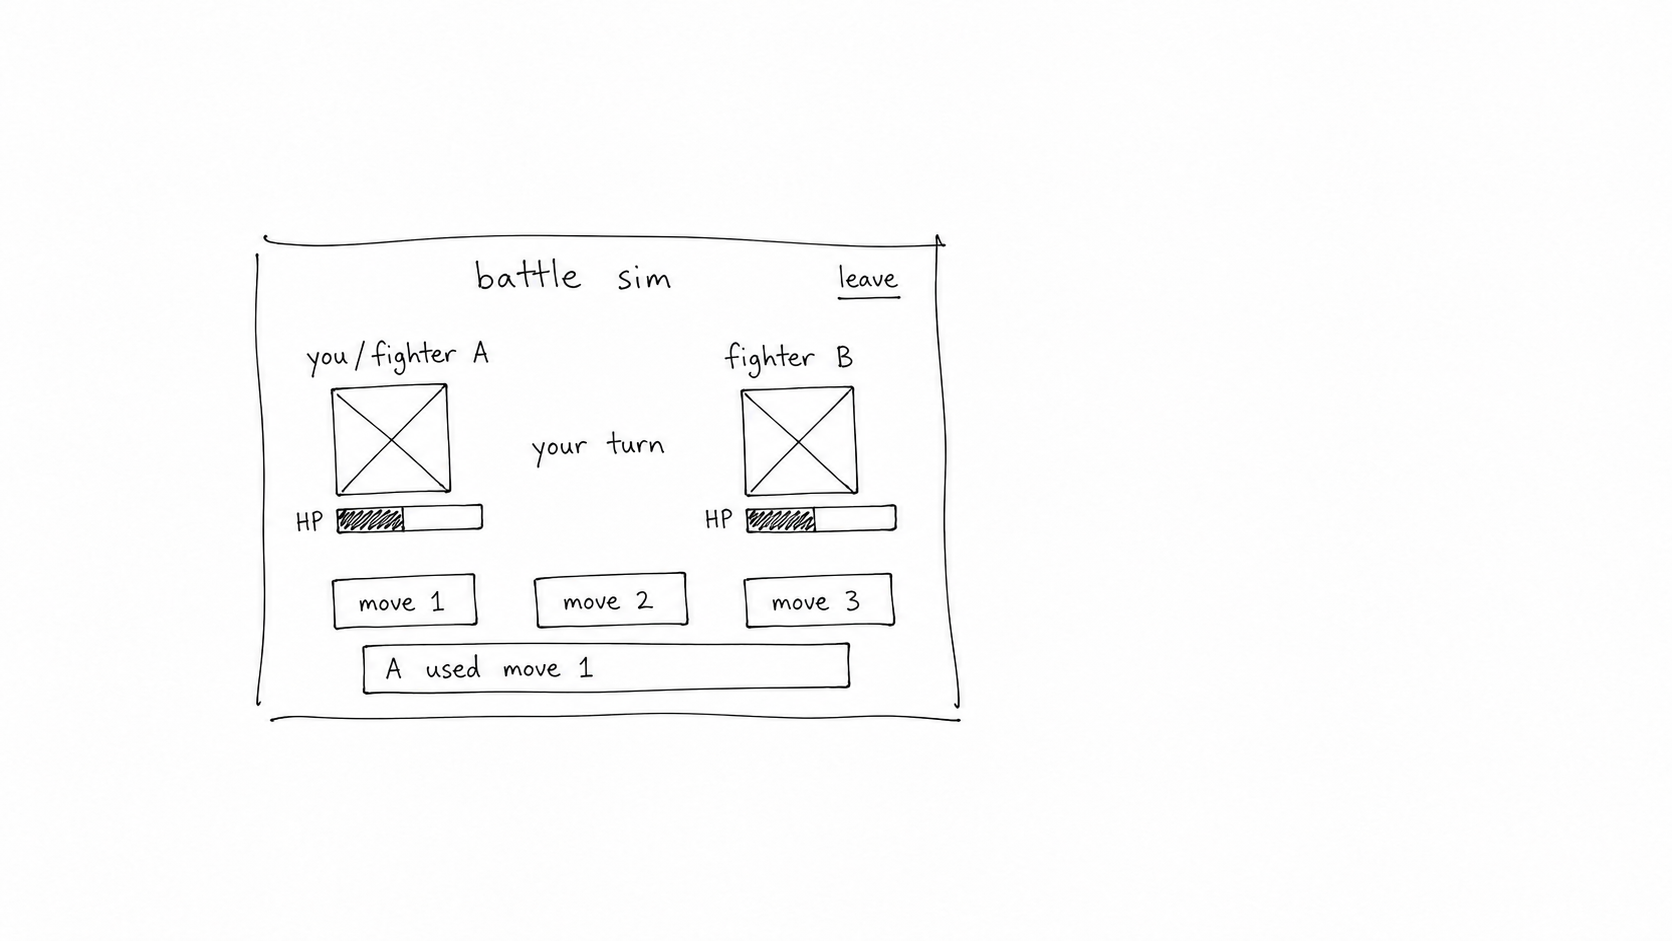
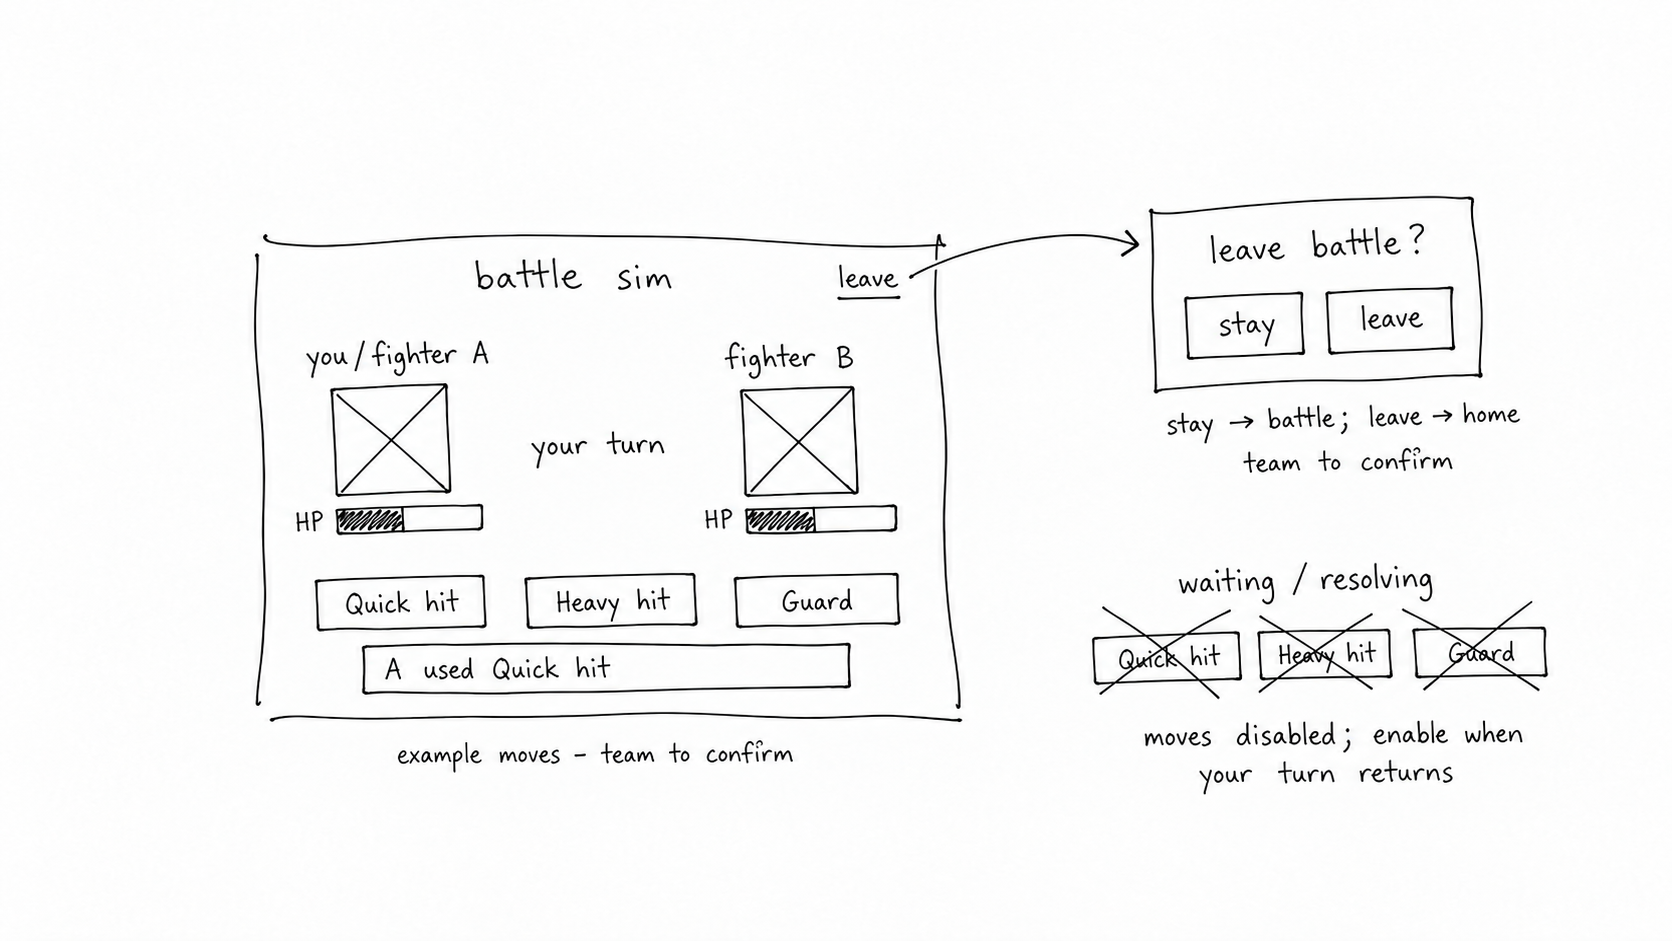
Clarify battle waiting exit and result states
Refs #17.

diff --git a/MilestoneSubmissions/wireframes/battle-results-notes.md b/MilestoneSubmissions/wireframes/battle-results-notes.md
@@ -3,10 +3,12 @@
 Design story: #17. Wireframes parent: #18.
 
 - `battle.png`: two fighters, health bars, current-turn label, illustrative move buttons, last-action feedback, and Leave.
-- `battle-result.png`: outcome message, fighter placeholder, return to character selection, and Log out. The handwritten lose alternative is a design annotation, not simultaneous win/lose messaging in the app.
+- `battle-result.png`: two alternative states, victory and defeat, each identifying winner/loser and offering Choose fighter plus Log out. The two frames are alternative screen states, not simultaneously displayed results.
 
 These are interface designs only. They do not implement damage, turn execution, game rules, persistence, or routing. Results may be a state within the battle screen rather than a separate route.
 
 ## Review notes
 
-Roster, move count, health values, and opponent behavior are unconfirmed examples. Waiting/disabled controls, leave confirmation, complete defeat state, mobile layout, and user/team walkthrough need review. These drafts do not by themselves complete every criterion in #17.
+Roster, health, opponent behavior, and the proposed Quick hit/Heavy hit/Guard moves remain unconfirmed examples. The battle sketch now shows a waiting/resolving state with disabled actions until the player's turn returns. Leave opens a confirmation: Stay returns to the battle; Leave returns Home. That exit behavior is explicitly marked for team confirmation.
+
+Victory identifies Fighter A as winner and Fighter B as defeated; defeat identifies Fighter B as winner and Fighter A as defeated. Both Choose fighter actions return to selection. Mobile layout and a real teammate/user walkthrough remain pending. These drafts do not establish that every criterion in #17 is complete.
